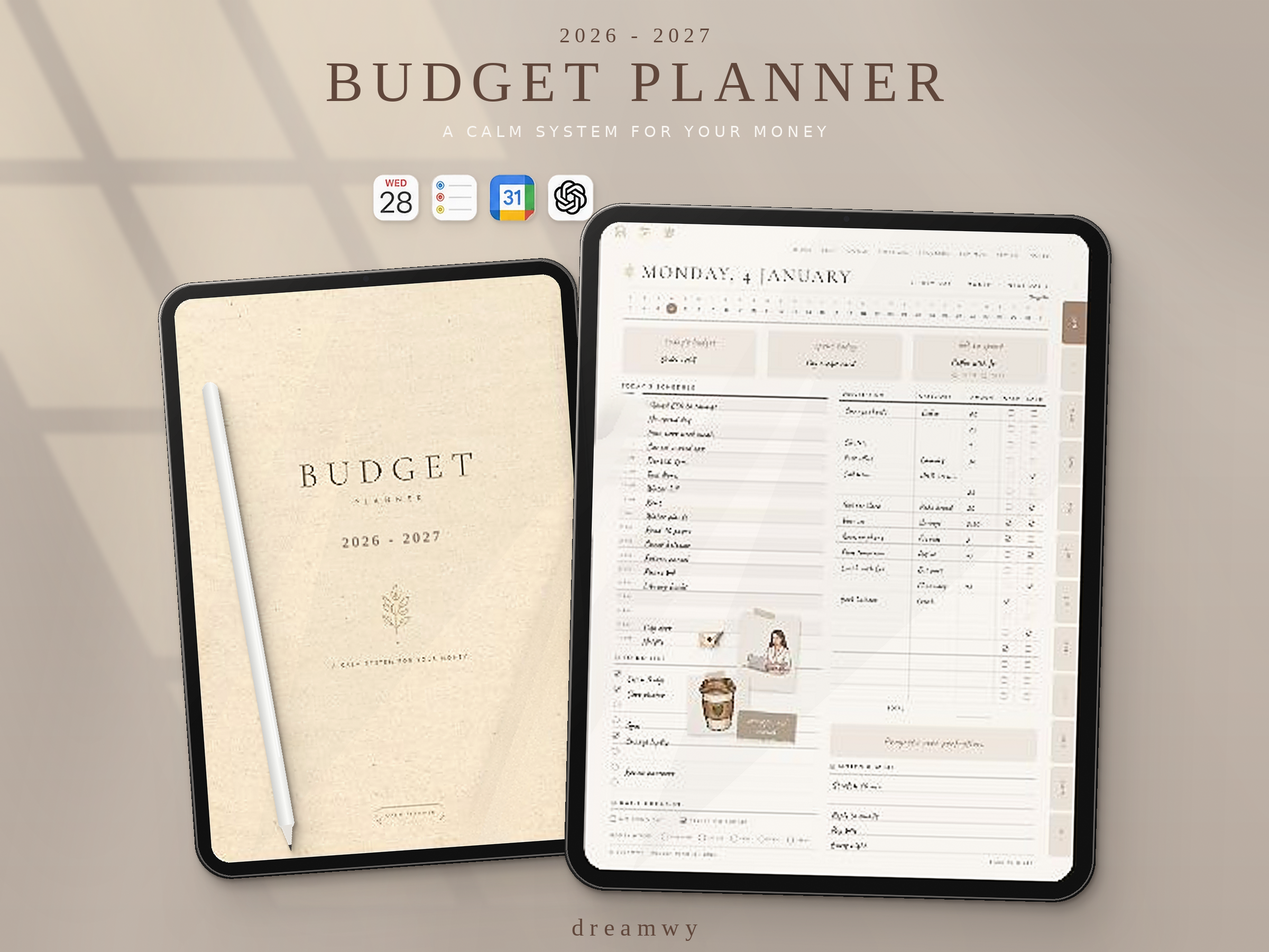
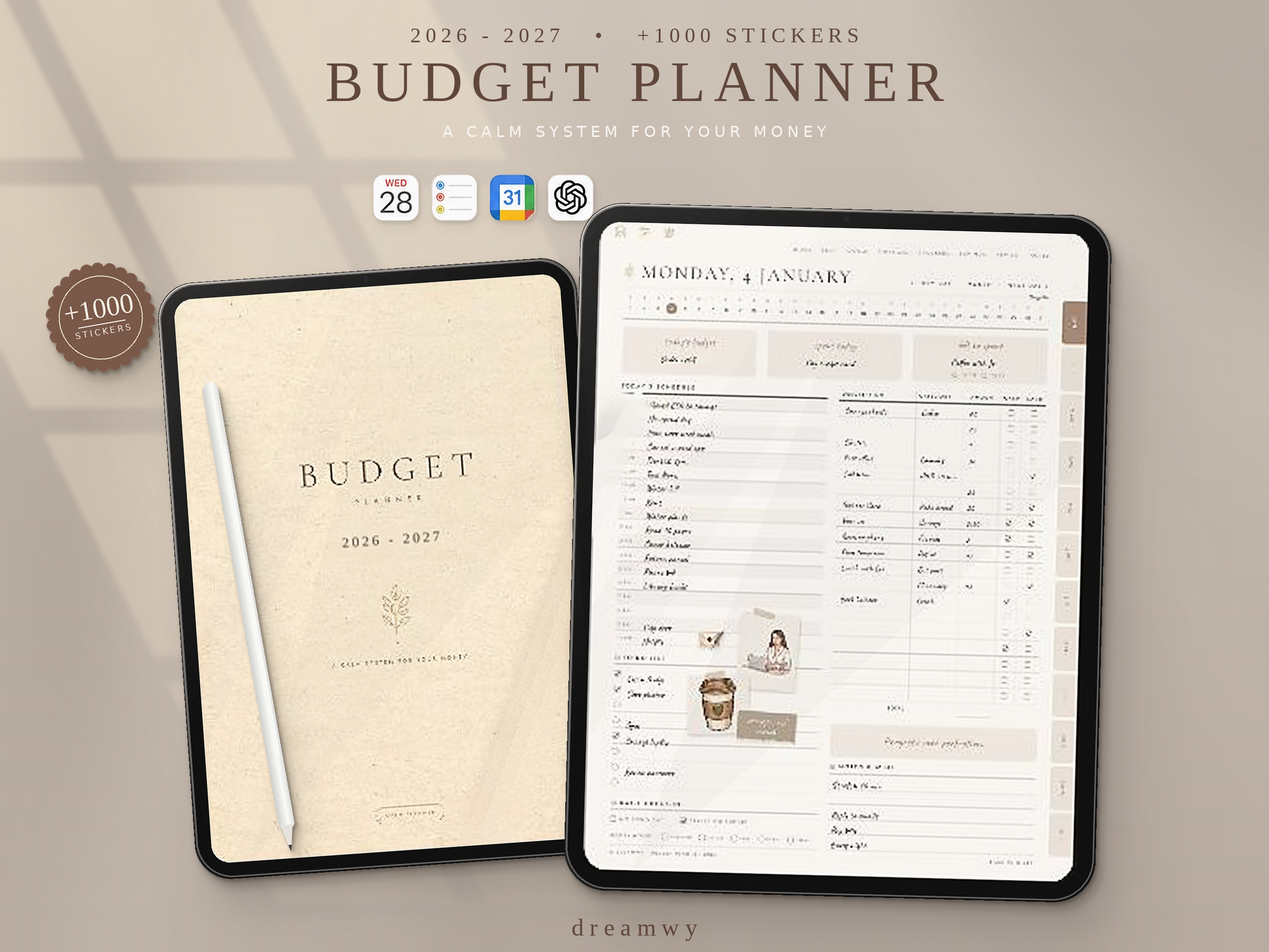
Budget mockup: add +1000 STICKERS badge and title line
Claude-Session: https://claude.ai/code/session_015ZGVvYxuW9E1f2kNKHXQzt

diff --git a/mockup/make_budget_mockup.py b/mockup/make_budget_mockup.py
@@ -3,6 +3,7 @@ Usage: python3 make_budget_mockup.py <budget_source.jpg> <icons_source.webp> <ou
 <budget_source> supplies the cover + daily page (the pencil lying on it is painted out);
 <icons_source> is the ADHD mockup image, used only for the four app icons."""
 import sys
+import math
 import numpy as np
 from PIL import Image, ImageChops, ImageDraw, ImageEnhance, ImageFilter, ImageFont
 
@@ -253,9 +254,28 @@ drop(pen.split()[3], 380, 720, [(36, 52, 22, .30), (14, 20, 7, .45), (4, 6, 3, .
 canvas.alpha_composite(pen, (380, 720))
 
 
+# "+1000 STICKERS" seal
+sx, sy, sr = 190, 600, 97
+seal = Image.new("RGBA", (sr * 2 + 40, sr * 2 + 40), (0, 0, 0, 0))
+sd = ImageDraw.Draw(seal)
+sc = sr + 20
+for i in range(26):
+    a = i * 2 * math.pi / 26
+    sd.ellipse((sc + (sr - 6) * math.cos(a) - 12, sc + (sr - 6) * math.sin(a) - 12, sc + (sr - 6) * math.cos(a) + 12, sc + (sr - 6) * math.sin(a) + 12), fill=(122, 88, 72, 255))
+sd.ellipse((sc - sr + 6, sc - sr + 6, sc + sr - 6, sc + sr - 6), fill=(122, 88, 72, 255))
+sd.ellipse((sc - sr + 18, sc - sr + 18, sc + sr - 18, sc + sr - 18), outline=(236, 220, 200, 255), width=2)
+tf = ImageFont.truetype(serif, 52); sf = ImageFont.truetype(sans, 16)
+cream = (250, 242, 232, 255)
+sd.text((sc, sc - 18), "+1000", font=tf, fill=cream, anchor="mm")
+spaced(sd, (sc, sc + 18), "STICKERS", sf, cream, 4)
+sd.line([(sc - 45, sc + 12), (sc + 45, sc + 12)], fill=cream, width=2)
+seal = seal.rotate(10, expand=True, resample=Image.BICUBIC)
+drop(seal.split()[3], sx - seal.width // 2, sy - seal.height // 2, [(30, 46, 22, .3), (10, 16, 8, .45), (3, 5, 3, .55)])
+canvas.alpha_composite(seal, (sx - seal.width // 2, sy - seal.height // 2))
+
 d = ImageDraw.Draw(canvas)
 ink = (96, 70, 58)
-spaced(d, (W / 2, 44), "2026 - 2027", ImageFont.truetype(serif, 40), ink, 9)
+spaced(d, (W / 2, 44), "2026 - 2027   \u2022   +1000 STICKERS", ImageFont.truetype(serif, 40), ink, 9)
 spaced(d, (W / 2, 94), "BUDGET PLANNER", ImageFont.truetype(serif, 108), ink, 16)
 spaced(d, (W / 2, 232), "A CALM SYSTEM FOR YOUR MONEY", ImageFont.truetype(sans, 29), (252, 249, 245), 8)
 # app icons (original artwork, cropped from the source mockup)
